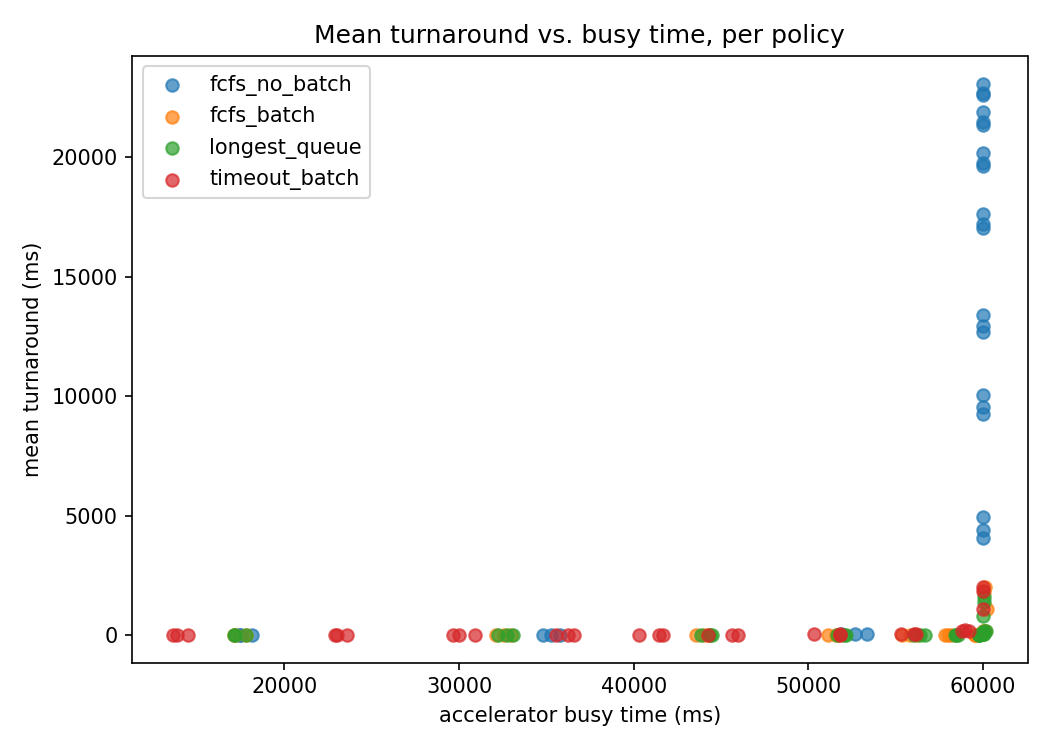
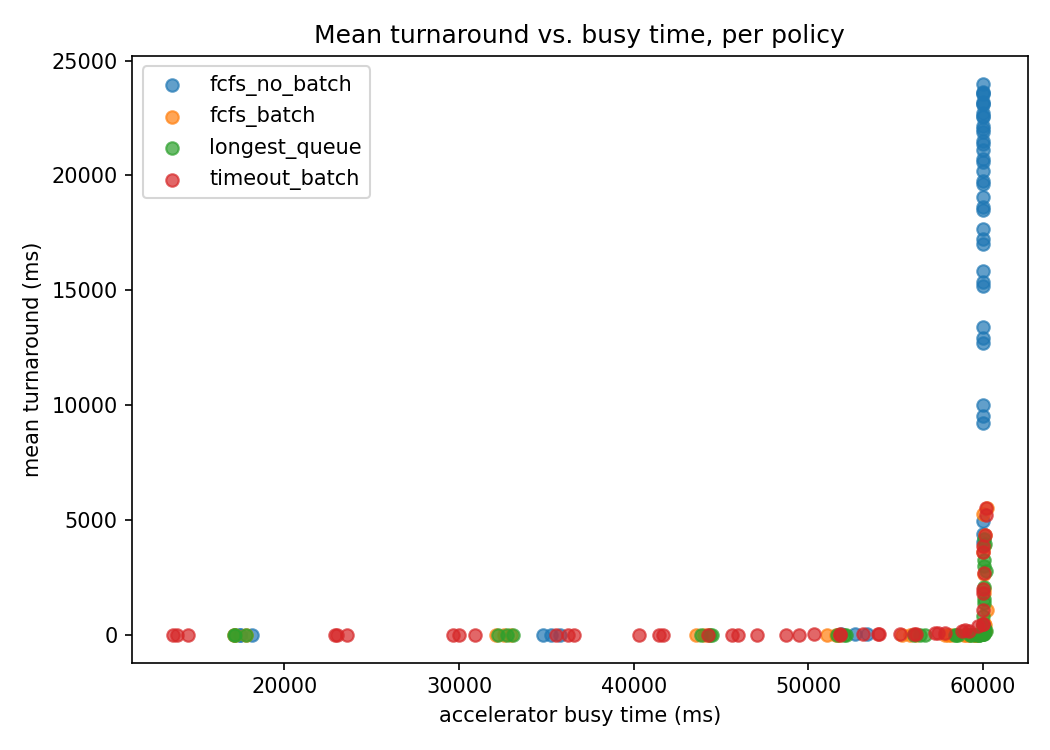
Reran the scheduler until everything goes unstable

diff --git a/scheduler-sim/run_experiment.py b/scheduler-sim/run_experiment.py
@@ -54,7 +54,7 @@ YOLO_WEIGHTS = [0.5278, 0.149, 0.0834, 0.2398]
 PROFILE_CSV = os.path.join(HERE, "profiles", "yolov8_a100_eager_fp32.csv")
 
 # Loads for the sweeps (jobs per ms).
-REAL_LOADS = [0.05, 0.1, 0.15, 0.2, 0.25, 0.3, 0.4, 0.5, 0.6, 0.7]
+REAL_LOADS = [0.05, 0.1, 0.15, 0.2, 0.25, 0.3, 0.35, 0.4, 0.45, 0.5, 0.55, 0.6, 0.65, 0.7, 0.75, 0.8]
 
 # Knob 1 lives inside each experiment: workload_class + workload_kwargs.
 EXPERIMENTS = [
@@ -223,6 +223,52 @@ def plot_metric_vs_load(rows, path, column, label):
     save_figure(figure, path)
 
 
+def plot_metric_vs_load_log(rows, path, column, label):
+    """Same as plot_metric_vs_load but with a log y-axis, so a policy that has
+    blown up (thousands of ms) and the ones still coping (a few ms) fit on one chart."""
+    figure, axes = plt.subplots(figsize=(7, 5))
+    table = values_by_policy_and_load(rows, column)
+    for policy_name, scheduler_class, scheduler_kwargs in POLICIES:
+        if policy_name not in table:
+            continue
+        loads = sorted(table[policy_name].keys())
+        means = [np.mean(table[policy_name][load]) for load in loads]
+        axes.plot(loads, means, marker="o", label=policy_name)
+    axes.set_yscale("log")
+    axes.set_xlabel("offered load (jobs/ms)")
+    axes.set_ylabel(label + ", log scale")
+    axes.set_title(label + " vs. load, per policy (log scale)")
+    axes.grid(True, which="both", alpha=0.3)
+    axes.legend()
+    save_figure(figure, path)
+
+
+def plot_metric_vs_load_stable_only(rows, path, column, label):
+    """Linear y-axis, but each policy is drawn only up to the last load where it
+    was still stable in at least half the seeds, so one collapsed policy does not
+    squash the others. Where each line stops is where that policy breaks down."""
+    figure, axes = plt.subplots(figsize=(7, 5))
+    table = values_by_policy_and_load(rows, column)
+    stable = values_by_policy_and_load(rows, "stable")
+    for policy_name, scheduler_class, scheduler_kwargs in POLICIES:
+        if policy_name not in table:
+            continue
+        loads, means = [], []
+        for load in sorted(table[policy_name].keys()):
+            if np.mean([float(v) for v in stable[policy_name][load]]) < 0.5:
+                break
+            loads.append(load)
+            means.append(np.mean(table[policy_name][load]))
+        if loads:
+            axes.plot(loads, means, marker="o", label=policy_name + " (stable up to " + format(loads[-1], ".2f") + ")")
+    axes.set_xlabel("offered load (jobs/ms)")
+    axes.set_ylabel(label)
+    axes.set_title(label + " vs. load, stable region only")
+    axes.grid(True, alpha=0.3)
+    axes.legend()
+    save_figure(figure, path)
+
+
 def rank_policies(mean_per_policy):
     """Policy names ordered from smallest to largest value (ties keep POLICIES order)."""
     pairs = []
@@ -286,6 +332,12 @@ def main():
         plot_turnaround_vs_busy_time(rows, os.path.join(out_dir, "turnaround_vs_busy_time.png"))
         plot_metric_vs_load(rows, os.path.join(out_dir, "turnaround_vs_load.png"),
                             "turnaround_mean_ms", "mean turnaround (ms)")
+        plot_metric_vs_load_log(rows, os.path.join(out_dir, "turnaround_vs_load_log.png"),
+                                "turnaround_mean_ms", "mean turnaround (ms)")
+        plot_metric_vs_load_stable_only(rows, os.path.join(out_dir, "turnaround_vs_load_stable.png"),
+                                        "turnaround_mean_ms", "mean turnaround (ms)")
+        plot_metric_vs_load_stable_only(rows, os.path.join(out_dir, "turnaround_p95_vs_load_stable.png"),
+                                        "turnaround_p95_ms", "p95 turnaround (ms)")
         plot_metric_vs_load(rows, os.path.join(out_dir, "utilization_vs_load.png"),
                             "utilization", "accelerator utilization")
         plot_metric_vs_load(rows, os.path.join(out_dir, "compression_ratio_vs_load.png"),

diff --git a/CLAUDE.md b/CLAUDE.md
@@ -76,8 +76,8 @@ constants or paths), parameterized by a `config` module (`cifar-100/fig9c/config
     0.240 l]`. Metrics from t=0 (warm-up dropped: it inflated compression ratio when overloaded).
   - Each run saves raw per-job data as `.npz` in `results/<exp>/raw/` (git-ignored);
     `SIMULATE = False` recomputes metrics and plots from it in ~10 s.
-  - Experiments in `results/` (each `results.csv` + 5 plots), all on the measured profile,
-    `REAL_LOADS` 0.05-0.7 jobs/ms: `yolo_load_sweep` (Poisson), `yolo_sticky_load_sweep`,
+  - Experiments in `results/` (each `results.csv` + plots, incl. `turnaround_vs_load_log.png` and `*_stable.png` that drop collapsed points), all on the measured profile,
+    `REAL_LOADS` 0.05-0.8 jobs/ms step 0.05: `yolo_load_sweep` (Poisson), `yolo_sticky_load_sweep`,
     `yolo_periodic_load_sweep`. Old synthetic/ResNet profiles and sweeps deleted (in git history).
   - Removed vs the first version: registries, ABCs/hooks, JSONL tracer, deadline/priority fields,
     trace router, `recall_labeling.py`, interpolate mode, switch cost.
@@ -382,7 +382,7 @@ every run rather than relying on a copied `.npz` weight file.
 
    **TRT engines broken** (Week5 `[DEAD-END]`): compiled engines' outputs do not match eager (14k vs
    2.2k detections after NMS, FP32 too); likely box decoding lost in export. Sim now runs on the
-   eager FP32 profile (loads 0.05-0.7); fix the export and re-verify before switching back.
+   eager FP32 profile (loads 0.05-0.8). Breakdown: no-batch past ~0.17, all batching policies knee at 0.6, collapse at 0.65; fix the export and re-verify before switching back.
 
    **Literature** (`research.md`, Week5 `[RESULT]` entries): closest is EdgeServing (arXiv
    2605.05527): same setting, but always runs min(|Q|, 10), never waits or picks b, clocks locked

diff --git a/Journel/Week5.md b/Journel/Week5.md
@@ -563,3 +563,27 @@ rejects batches larger than the queue, which policy v1's padding will need relax
 **Next**: a quick server check (compare score rows vs box rows of one engine against eager), then
 fix the export (keep anchors/strides, or compile only backbone + head and decode in PyTorch),
 re-time a few configs, and switch the profile back.
+
+---
+
+## [RESULT] Load sweep extended until every policy breaks down (eager FP32 profile)
+
+Loads now 0.05 to 0.8 jobs/ms in steps of 0.05 (16 loads), 3 seeds, all three workloads. Added
+two readable turnaround plots per experiment, since the linear plot is dominated by
+`fcfs_no_batch` at ~20,000 ms: `turnaround_vs_load_log.png` (log y-axis, all points) and
+`turnaround_vs_load_stable.png` / `turnaround_p95_vs_load_stable.png` (each policy drawn only up to
+its last load stable in at least half the seeds, so where a line stops is where it breaks).
+
+Breakdown points (Poisson; sticky and periodic are close):
+- `fcfs_no_batch`: fine to 0.15 (25.6 ms), gone at 0.2 (4.3 s mean). Matches the ~0.17 jobs/ms
+  batch-1 capacity.
+- All three batching policies: smooth up to ~0.55 (28-40 ms), knee at 0.6 (55-67 ms), collapse at
+  0.65 (~270 ms) and seconds beyond 0.7. Matches the ~0.69 jobs/ms capacity at batch 64.
+- Past saturation `longest_queue` degrades slowest (0.8: 3.3 s vs 4.4 s for the other two).
+- `timeout_batch` costs ~13 ms extra at light load, the gap closes by ~0.5, and the three batching
+  policies converge from 0.55.
+- Sticky: the knee comes earlier (50 ms at 0.5, 181 ms at 0.6) because one queue backs up while
+  others idle.
+
+The `stable` flag stays a rough heuristic (it calls 0.65 stable in 2 of 3 seeds at ~270 ms mean,
+and flickers on sticky between 0.4 and 0.6); read the plots, not the flag, for the breakdown point.
